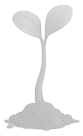
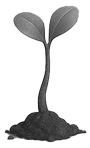
feat: Add launch background images and configure splash screen for dark and light modes

Changed region(s): [[0.0482, 0.0294, 0.9639, 0.9706]]

diff --git a/web/index.html b/web/index.html
@@ -1,6 +1,4 @@
-<!DOCTYPE html>
-<html>
-<head>
+<!DOCTYPE html><html><head>
   <!--
     If you are serving your web app in a path other than the root, change the
     href value below to reflect the base path you are serving from.
@@ -27,7 +25,7 @@
   <link rel="apple-touch-icon" href="icons/Icon-192.png">
 
   <!-- Favicon -->
-  <link rel="icon" type="image/png" href="favicon.png"/>
+  <link rel="icon" type="image/png" href="favicon.png">
 
   <title>app_p_134</title>
   <link rel="manifest" href="manifest.json">
@@ -42,8 +40,81 @@
       });
     }
   </script>
+  <style id="splash-screen-style">
+    html {
+      height: 100%
+    }
+
+    body {
+      margin: 0;
+      min-height: 100%;
+      background-color: #9163F6;
+          background-size: 100% 100%;
+    }
+
+    .center {
+      margin: 0;
+      position: absolute;
+      top: 50%;
+      left: 50%;
+      -ms-transform: translate(-50%, -50%);
+      transform: translate(-50%, -50%);
+    }
+
+    .contain {
+      display:block;
+      width:100%; height:100%;
+      object-fit: contain;
+    }
+
+    .stretch {
+      display:block;
+      width:100%; height:100%;
+    }
+
+    .cover {
+      display:block;
+      width:100%; height:100%;
+      object-fit: cover;
+    }
+
+    .bottom {
+      position: absolute;
+      bottom: 0;
+      left: 50%;
+      -ms-transform: translate(-50%, 0);
+      transform: translate(-50%, 0);
+    }
+
+    .bottomLeft {
+      position: absolute;
+      bottom: 0;
+      left: 0;
+    }
+
+    .bottomRight {
+      position: absolute;
+      bottom: 0;
+      right: 0;
+    }
+
+    @media (prefers-color-scheme: dark) {
+      body {
+        background-color: #9163F6;
+          }
+    }
+  </style>
+  <script id="splash-screen-script">
+    function removeSplashFromWeb() {
+      document.getElementById("splash")?.remove();
+      document.getElementById("splash-branding")?.remove();
+      document.body.style.background = "transparent";
+    }
+  </script>
+  <meta content="width=device-width, initial-scale=1.0, maximum-scale=1.0, user-scalable=no" name="viewport">
 </head>
 <body>
-  <script src="flutter_bootstrap.js" async></script>
-</body>
-</html>
+  <script src="flutter_bootstrap.js" async=""></script>
+
+
+</body></html>

diff --git a/lib/core/constants/assets.dart b/lib/core/constants/assets.dart
@@ -18,6 +18,10 @@ class Assets {
   /// assets/images/goal_achieved.png
   static const String imagesGoalAchieved = "assets/images/goal_achieved.png";
 
+  /// Assets for imagesGoalInitalAchieved
+  /// assets/images/goal_inital_achieved.png
+  static const String imagesGoalInitalAchieved = "assets/images/goal_inital_achieved.png";
+
   /// Assets for imagesGoalNotAchieved
   /// assets/images/goal_not_achieved.png
   static const String imagesGoalNotAchieved = "assets/images/goal_not_achieved.png";

diff --git a/lib/screens/home/widgets/balance_card.dart b/lib/screens/home/widgets/balance_card.dart
@@ -45,7 +45,7 @@ class BalanceCard extends StatelessWidget {
                 children: [
                   // Tree/Plant image in background
                   Image.asset(
-                    Assets.imagesGoalNotAchieved,
+                    Assets.imagesGoalInitalAchieved,
                    height: 136.w,
                    fit: BoxFit.cover,
 
